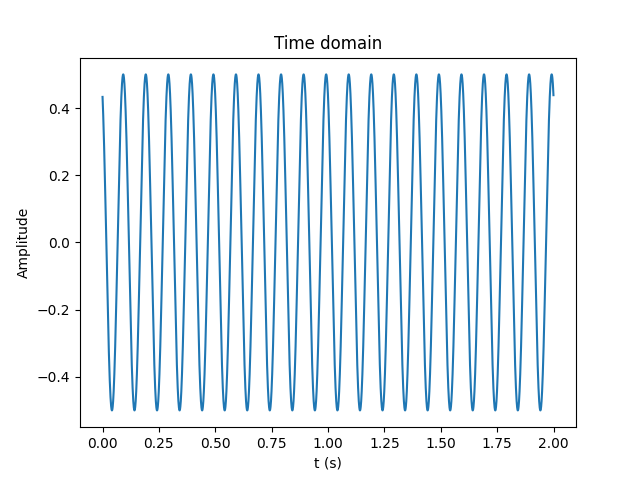
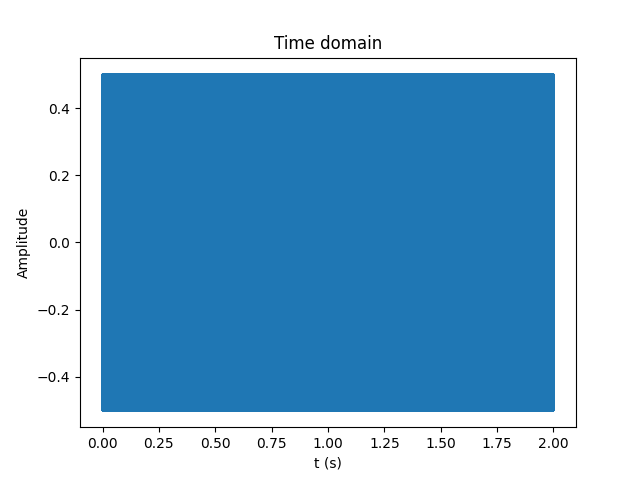
saving

diff --git a/ch1_demo_scripts.py b/ch1_demo_scripts.py
@@ -218,7 +218,7 @@ def welch_demo():
 
     # Create sample signal
     A = 0.5 # amplitude of the cosine wave
-    fc=10 # frequency of the cosine wave in Hz
+    fc=4000 # frequency of the cosine wave in Hz
     phase=30 # desired phase shift of the cosine in degrees
     fs=300*fc # sampling frequency with oversampling factor 32
     t=np.arange(start = 0,stop = 2,step = 1/fs) # 2 seconds duration
